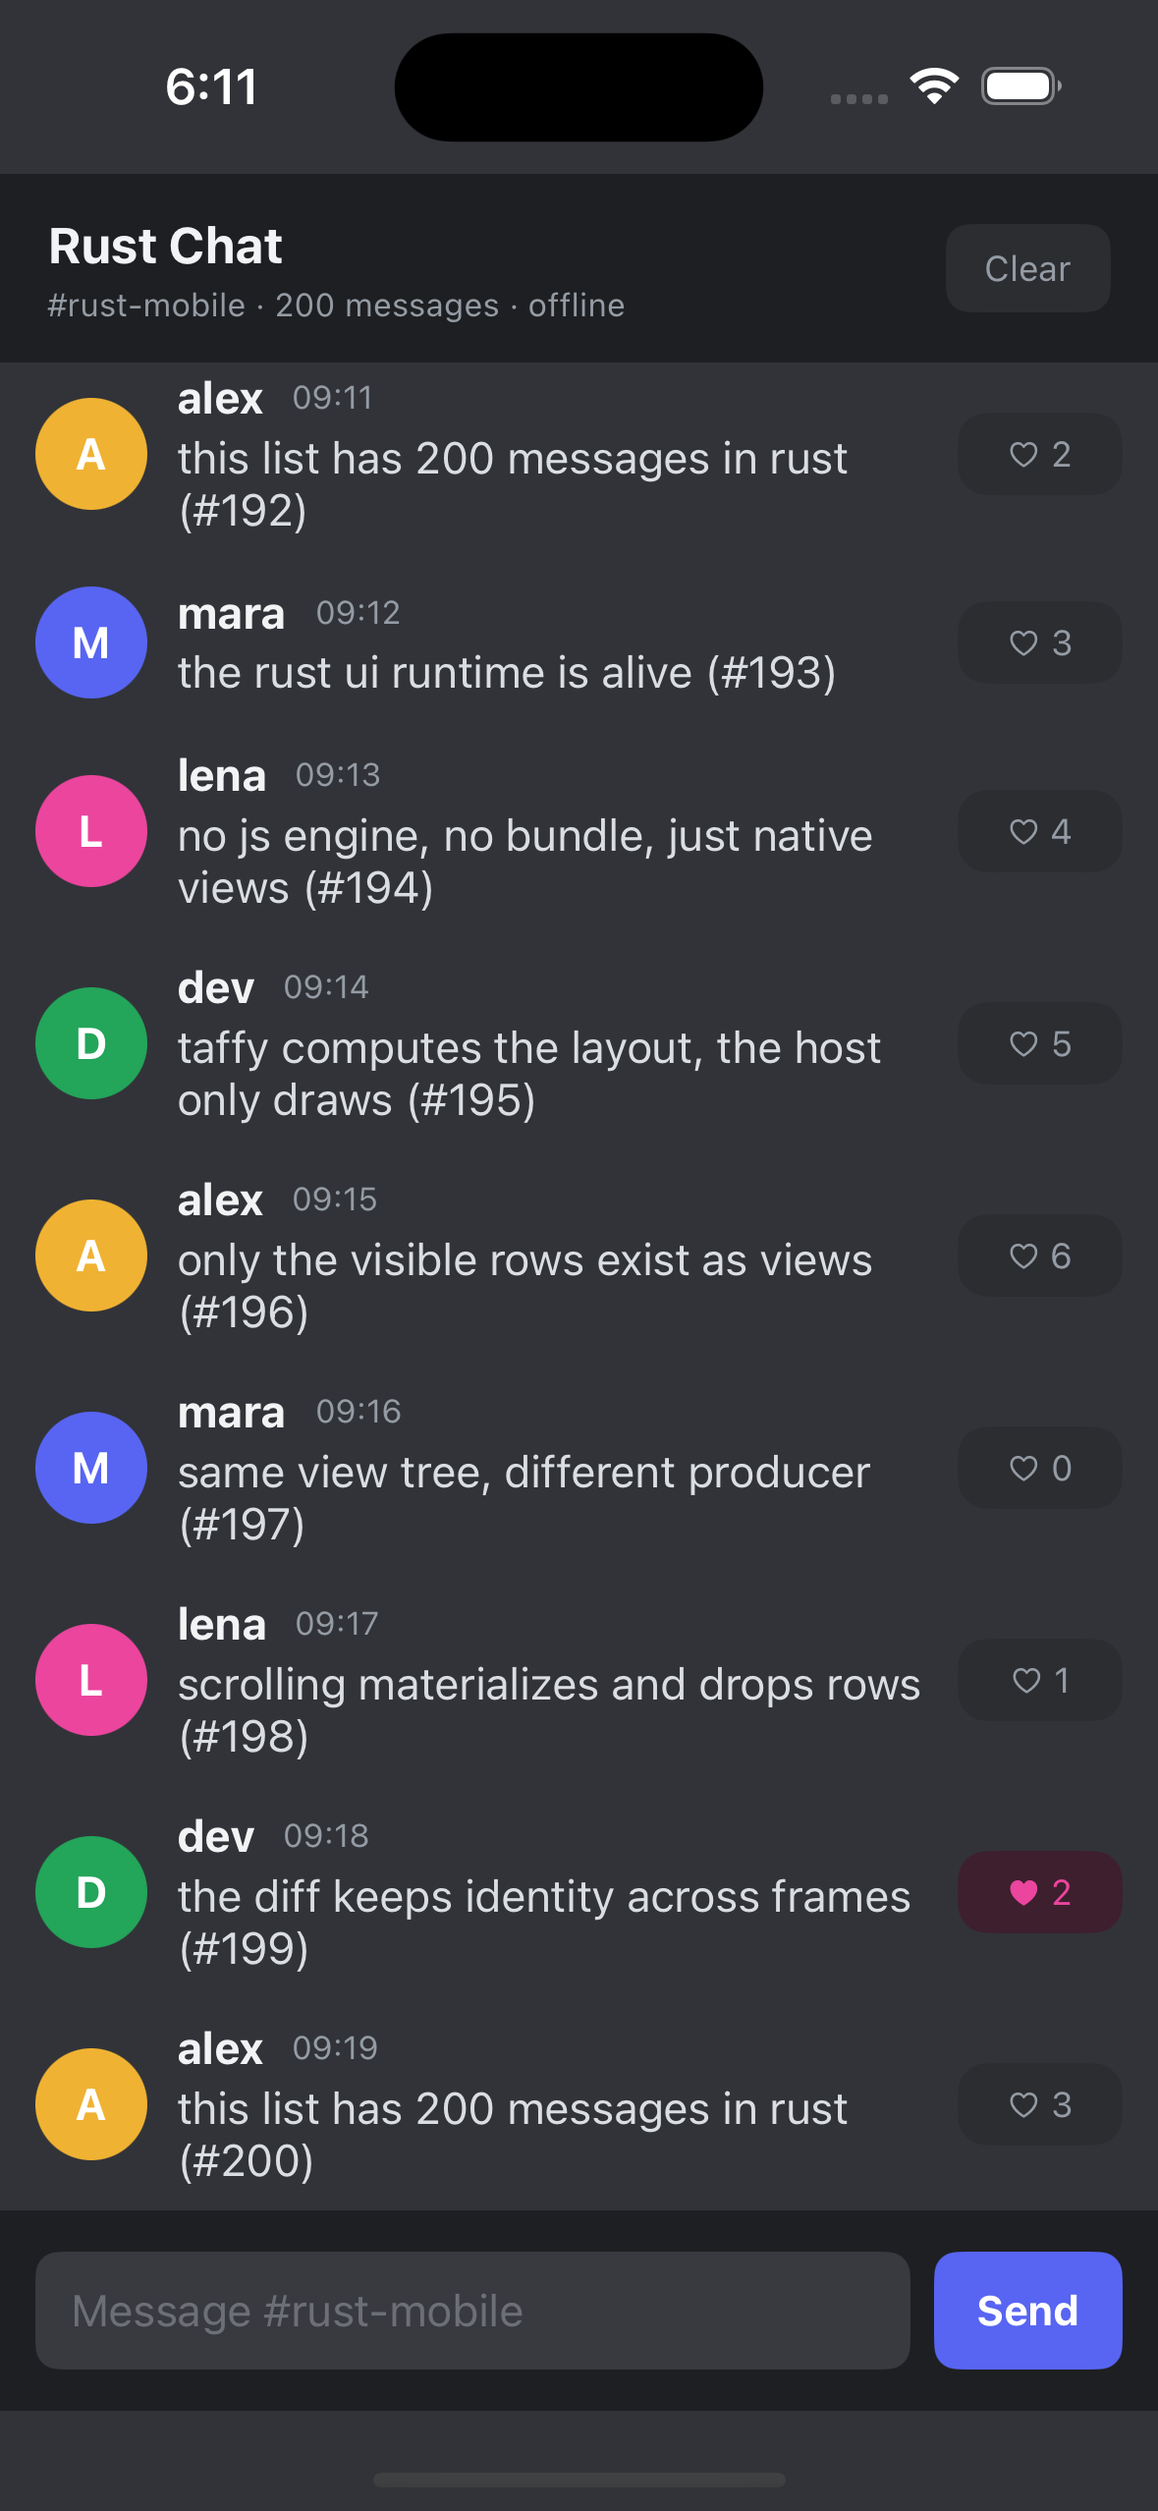
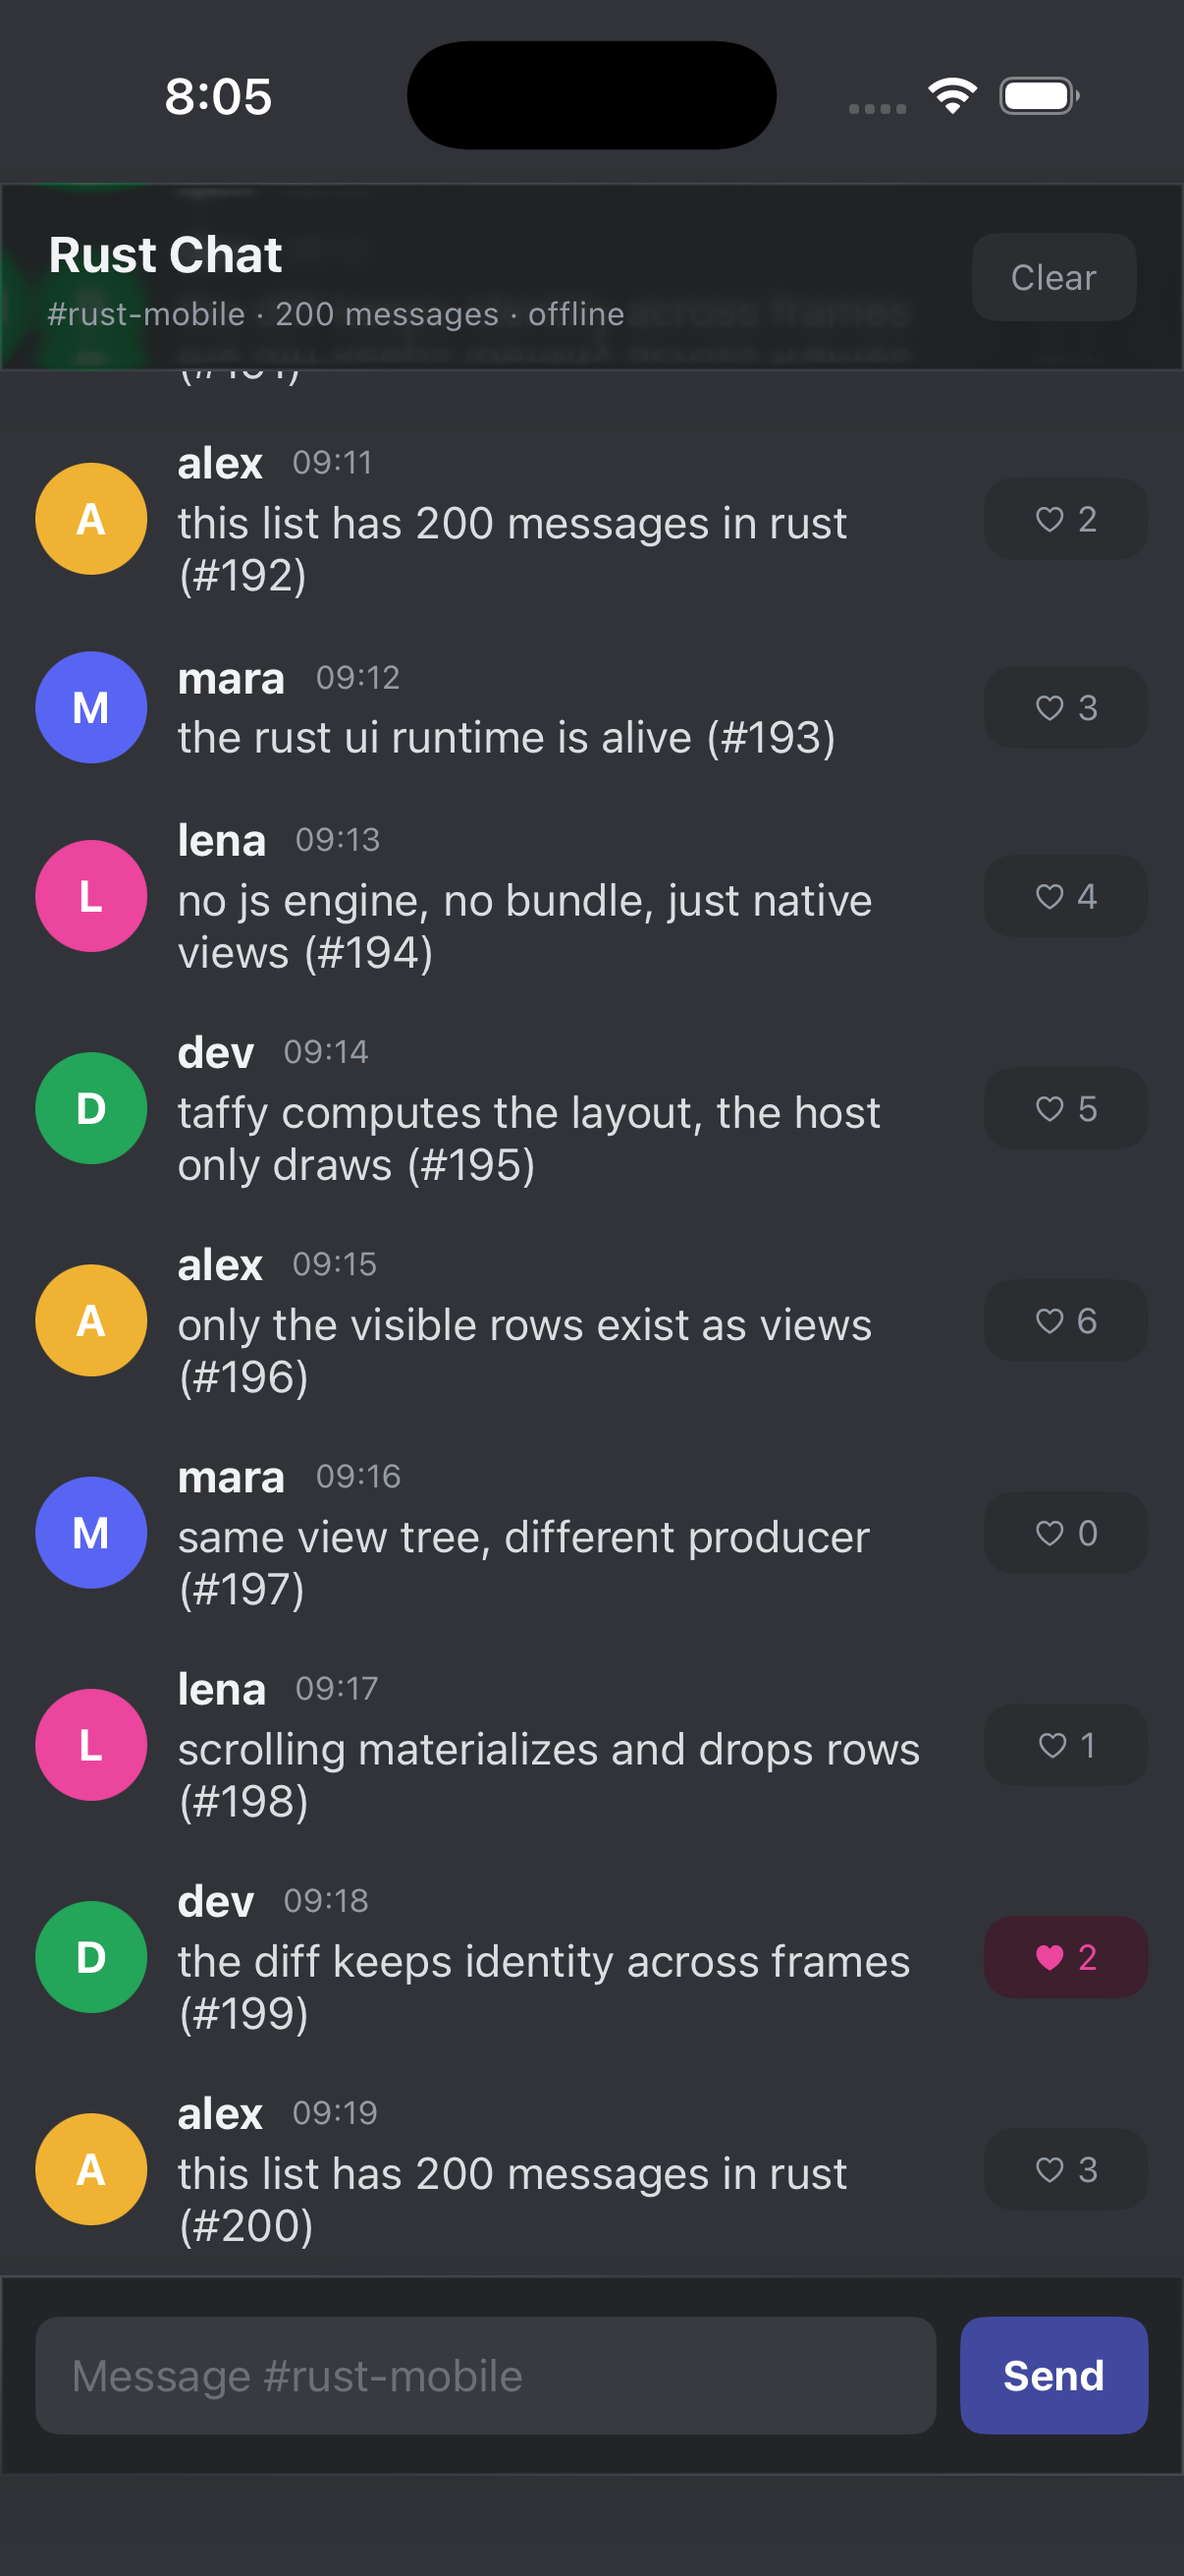
Polish Liquid Glass docs and simulator test

diff --git a/ios/CheetahUITests/CheetahUITests.swift b/ios/CheetahUITests/CheetahUITests.swift
@@ -18,12 +18,6 @@ final class CheetahUITests: XCTestCase {
         XCTAssertTrue(send.waitForExistence(timeout: 5), "send button should be visible")
         send.tap()
 
-        sleep(2)
-        print("FIELD VALUE AFTER SEND: \(String(describing: field.value))")
-        let labels = app.staticTexts.allElementsBoundByIndex.map { $0.label }
-        print("STATIC LABELS: \(labels)")
-        print("APP HIERARCHY:\n\(app.debugDescription)")
-
         let message = app.staticTexts["hello from ios"]
         XCTAssertTrue(message.waitForExistence(timeout: 10), "sent message should render in the list")
     }

diff --git a/ios/README.md b/ios/README.md
@@ -1,4 +1,4 @@
-# Cheetah iOS host
+# Cheetah iOS host
 
 The iOS app is a UIKit host for the same Rust actor and op protocol used on Android. It does not use SwiftUI or React Native.
 
@@ -15,7 +15,7 @@ xcodegen generate
 open Cheetah.xcodeproj
 ```
 
-Select a signing team in Xcode, then run on a simulator or device.
+Build with Xcode 26 to get Liquid Glass. Select a signing team in Xcode, then run on a simulator or device.
 
 `build-rust.sh` compiles the Rust core for device and simulator architectures and creates `ios/Libs/Runtime.xcframework`. The Xcode target links that XCFramework.
 
@@ -29,15 +29,23 @@ cargo run -p gateway
 
 The iOS Simulator shares the Mac's loopback, so `ws://127.0.0.1:9001` works as-is. For a physical device, change the gateway URL in `Cheetah/RustHost.swift` to the Mac's LAN address and add the appropriate ATS exception.
 
+## Liquid Glass
+
+On iOS 26, the header and composer are rendered as Liquid Glass containers using `UIGlassEffect`. The list extends underneath both bars and scrolls behind the material. Clear and Send are interactive glass controls.
+
+The same Rust `glass()` nodes fall back to `UIBlurEffect` on iOS 16â€“25. When Reduce Transparency is enabled, they render as an opaque panel instead. The app does not set `UIDesignRequiresCompatibility`, so system components on iOS 26 are free to adopt the new design as well.
+
 ## What is implemented
 
 - C ABI (`cheetah_new`, `cheetah_resize`, `cheetah_event`, `cheetah_free`) over the shared Rust core.
 - Ops callback posts JSON to the main queue.
 - CoreText text measurement callback on the actor thread.
 - Native `UILabel`, custom `UIControl` buttons, `UITextField`, and `UIScrollView` views driven by absolute frames.
+- Glass containers, vibrancy through `UIVisualEffectView.contentView`, blur/opaque fallbacks, and interactive glass controls.
+- Overlay header/composer with scroll content insets, so messages scroll beneath the chrome.
+- Stable accessibility identifiers for Rust-driven controls.
 - Variable-height list slots, scroll callbacks, scroll-to-bottom, connection status, and offline outbox from the shared core.
 
 ## Verification
 
-CI builds the Rust XCFramework, generates the Xcode project, builds both device and simulator targets, launches the app in an iPhone simulator, and publishes the screenshot above. The app has not yet been run on a physical device.
-
+CI runs on macOS 26 with Xcode 26, builds the Rust XCFramework, builds both device and simulator targets, launches the app in an iOS 26 simulator, publishes the screenshot above, and runs a UI test that types a message and taps Send. The app has not yet been run on a physical device.
